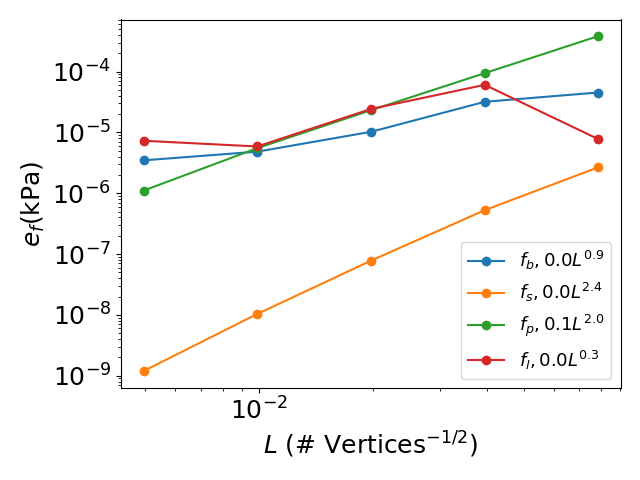
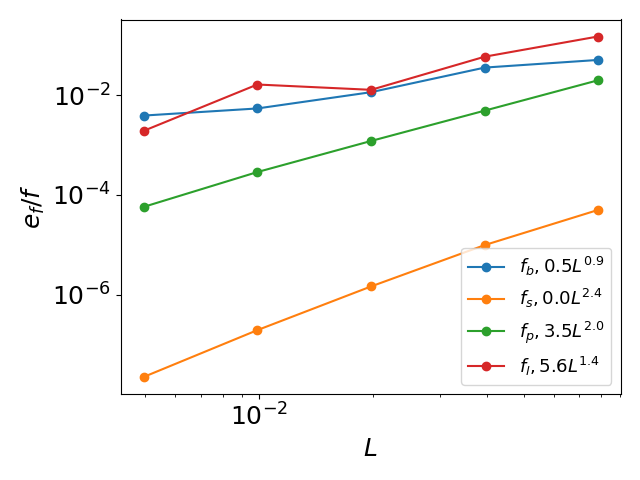
working convergence plot update

diff --git a/visualization/convergence/convergence_pybind.py b/visualization/convergence/convergence_pybind.py
@@ -66,11 +66,12 @@ pJ = 1e3  # fJ = 1e-15 J
 Pa = 1e-3  # kPa
 
 nSubSize = 6
+minSub = 2
 nvertices = np.zeros(nSubSize)
-l2bendnorm = np.zeros(nSubSize)
-l2surfnorm = np.zeros(nSubSize)
-l2pressnorm = np.zeros(nSubSize)
-l2linenorm = np.zeros(nSubSize)
+l1bendnorm = np.zeros(nSubSize)
+l1surfnorm = np.zeros(nSubSize)
+l1pressnorm = np.zeros(nSubSize)
+l1linenorm = np.zeros(nSubSize)
 
 bendenergy = np.zeros(nSubSize)
 surfenergy = np.zeros(nSubSize)
@@ -78,7 +79,7 @@ pressenergy = np.zeros(nSubSize)
 lineenergy = np.zeros(nSubSize)
 
 for i in range(nSubSize):
-    n = i+2
+    n = minSub + i
     faceMatrix, vertexMatrix = pymem3dg.getIcosphere(n, 1.3)
     faceMatrix, refVertexMatrix = pymem3dg.getIcosphere(n, 1)
     g = pymem3dg.System(faceMatrix, vertexMatrix, refVertexMatrix, nSub, p, isReducedVolume,
@@ -86,11 +87,11 @@ for i in range(nSubSize):
     g.computeFreeEnergy()
     g.computeAllForces()
     nvertices[i] = len(np.array(g.getVertexPositionMatrix()))
-    l2bendnorm[i] = g.computeL2Norm(
+    l1bendnorm[i] = g.computeL1Norm(
         g.getLumpedMassMatrix() * g.getBendingPressure())
-    l2surfnorm[i] = g.computeL2Norm(
+    l1surfnorm[i] = g.computeL1Norm(
         g.getLumpedMassMatrix() * g.getCapillaryPressure())
-    l2pressnorm[i] = g.computeL2Norm(
+    l1pressnorm[i] = g.computeL1Norm(
         g.getLumpedMassMatrix() * g.getInsidePressure())
 
     bendenergy[i] = g.E.BE
@@ -103,32 +104,28 @@ p.sharpness = 10000000
 p.r_H0 = [1, 1]
 p.eta = 0.0005
 for i in range(nSubSize):
-    n = i+1
+    n = minSub + i
     faceMatrix, vertexMatrix = pymem3dg.getIcosphere(n, 1.3)
     faceMatrix, refVertexMatrix = pymem3dg.getIcosphere(n, 1)
     g = pymem3dg.System(faceMatrix, vertexMatrix, refVertexMatrix, nSub, p, isReducedVolume,
                         isProtein, isLocalCurvature, isVertexShift)
     g.computeFreeEnergy()
     g.computeLineTensionPressure()
-    l2linenorm[i] = g.computeL2Norm(
+    l1linenorm[i] = g.computeL1Norm(
         g.getLumpedMassMatrix() * g.getLineTensionPressure())
     lineenergy[i] = g.E.lE
 
-
-print(g.getLineTension())
-print(l2bendnorm)
-print(l2linenorm)
-print(l2pressnorm)
-print(l2surfnorm)
-print(bendenergy)
-print(surfenergy)
-print(pressenergy)
-print(lineenergy)
-print(abs(l2bendnorm - l2bendnorm[nSubSize - 1])
-      [:nSubSize - 1])
-# l2bendnorm = l2bendnorm / Pa
-# l2surfnorm = l2surfnorm / Pa
-# l2pressnorm = l2pressnorm / Pa
+print("Bending Norm: ", l1bendnorm)
+print("Line tension Norm: ", l1linenorm)
+print("Pressure Norm: ", l1pressnorm)
+print("Surface Norm: ", l1surfnorm)
+print("Bending Energy: ", bendenergy)
+print("Surface Energy: ", surfenergy)
+print("Pressure Energy: ", pressenergy)
+print("Line Tension Energy: ", lineenergy)
+# l1bendnorm = l1bendnorm / Pa
+# l1surfnorm = l1surfnorm / Pa
+# l1pressnorm = l1pressnorm / Pa
 
 # Visualization preference
 # Font:
@@ -150,71 +147,61 @@ plt.rc('pdf', fonttype=42)
 
 
 ax = plt.subplot(1, 1, 1)
-# ax.plot(1/nvertices[:nSubSize-1], abs(l2bendnorm - l2bendnorm[nSubSize-1])[:nSubSize-1], label="bending")
-# ax.plot(1/nvertices[:nSubSize-1], abs(l2surfnorm - l2surfnorm[nSubSize-1])[:nSubSize-1], label="capillary")
-# ax.plot(1/nvertices[:nSubSize-1], abs(l2pressnorm - l2pressnorm[nSubSize-1])[:nSubSize-1], label="pressure")
-newX = np.logspace(-1.6, -1.1, base=10)
 
-popt, pcov = curve_fit(myExpFunc, np.power(
-    nvertices, -0.5), abs(l2bendnorm - l2bendnorm[nSubSize-1]))
-ax.loglog(np.power(nvertices, -0.5)[:nSubSize-1],
-          abs(l2bendnorm - l2bendnorm[nSubSize-1])[:nSubSize-1],
+lengthScale = np.power(nvertices, -0.5)[:nSubSize-1]
+
+error = abs(l1bendnorm - l1bendnorm[nSubSize-1])[:nSubSize-1] / abs(l1bendnorm[nSubSize-1])
+popt, pcov = curve_fit(myExpFunc, lengthScale, error)
+ax.loglog(lengthScale, error,
           '-o',  label="$f_b, {0:.1f}L^{{{1:.1f}}}$".format(*popt))
 
-popt, pcov = curve_fit(myExpFunc, np.power(
-    nvertices, -0.5), abs(l2surfnorm - l2surfnorm[nSubSize-1]))
-ax.loglog(np.power(nvertices, -0.5)[:nSubSize-1],
-          abs(l2surfnorm - l2surfnorm[nSubSize-1])[:nSubSize-1],
-          '-o', label="$f_s, {0:.1f}L^{{{1:.1f}}}$".format(*popt))
+error = abs(l1surfnorm - l1surfnorm[nSubSize-1])[:nSubSize-1] / abs(l1surfnorm[nSubSize-1])
+popt, pcov = curve_fit(myExpFunc, lengthScale, error)
+ax.loglog(lengthScale, error,
+          '-o', label="$f_s, {0:.1f}L^{{{1:.1f}}}$".format(*popt)) 
 
-popt, pcov = curve_fit(myExpFunc, np.power(
-    nvertices, -0.5), abs(l2pressnorm - l2pressnorm[nSubSize-1]))
-ax.loglog(np.power(nvertices, -0.5)[:nSubSize-1],
-          abs(l2pressnorm - l2pressnorm[nSubSize-1])[:nSubSize-1],
+error = abs(l1pressnorm - l1pressnorm[nSubSize-1])[:nSubSize-1] / abs(l1pressnorm[nSubSize-1])
+popt, pcov = curve_fit(myExpFunc, lengthScale, error)
+ax.loglog(lengthScale, error,
           '-o', label="$f_p, {0:.1f}L^{{{1:.1f}}}$".format(*popt))
 
-popt, pcov = curve_fit(myExpFunc, np.power(
-    nvertices, -0.5), abs(l2linenorm - l2linenorm[nSubSize-1]))
-ax.loglog(np.power(nvertices, -0.5)[:nSubSize-1],
-          abs(l2linenorm - l2linenorm[nSubSize-1])[:nSubSize-1],
+error = abs(l1linenorm - l1linenorm[nSubSize-1])[:nSubSize-1] / abs(l1linenorm[nSubSize-1])
+popt, pcov = curve_fit(myExpFunc, lengthScale, error)
+ax.loglog(lengthScale, error,
           '-o', label="$f_l, {0:.1f}L^{{{1:.1f}}}$".format(*popt))
 
 ax.legend()
-ax.set_ylabel("$e_f$(kPa)")
-ax.set_xlabel("$L$ (# Vertices$^{-1/2}$)")
+ax.set_ylabel("$e_f / f$")
+ax.set_xlabel("$L$")
 plt.tight_layout()
 plt.savefig("pressure_conv.png")
 ax.clear()
 
-newX = np.logspace(-2.5, -1.3, base=10)
-popt, pcov = curve_fit(myExpFunc, np.power(
-    nvertices, -0.5), abs(bendenergy - bendenergy[nSubSize-1]))
-ax.loglog(np.power(nvertices, -0.5)[:nSubSize-1],
-          abs(bendenergy - bendenergy[nSubSize-1])[:nSubSize-1],
+error = abs(bendenergy - bendenergy[nSubSize-1])[:nSubSize-1] / abs(bendenergy[nSubSize-1])
+print(error)
+popt, pcov = curve_fit(myExpFunc, lengthScale, error)
+ax.loglog(lengthScale, error,
           '-o', label="$E_b, {0:.1f}L^{{{1:.1f}}}$".format(*popt))
 
-popt, pcov = curve_fit(myExpFunc, np.power(
-    nvertices, -0.5), abs(surfenergy - surfenergy[nSubSize-1]))
-ax.loglog(np.power(nvertices, -0.5)[:nSubSize-1],
-          abs(surfenergy - surfenergy[nSubSize-1])[:nSubSize-1],
-          '-o', label="$E_s, {0:.1f}L^{{{1:.1f}}}$".format(*popt))
+error = abs(surfenergy - surfenergy[nSubSize-1])[:nSubSize-1] / abs(surfenergy[nSubSize-1])
+print(error)
+popt, pcov = curve_fit(myExpFunc, lengthScale, error)
+ax.loglog(lengthScale, error,
+          '--', label="$E_s, {0:.1f}L^{{{1:.1f}}}$".format(*popt))
 
-popt, pcov = curve_fit(myExpFunc, np.power(
-    nvertices, -0.5), abs(pressenergy - pressenergy[nSubSize-1]))
-ax.loglog(np.power(nvertices, -0.5)[:nSubSize-1],
-          abs(pressenergy - pressenergy[nSubSize-1])[:nSubSize-1],
+error = abs(pressenergy - pressenergy[nSubSize-1])[:nSubSize-1] / abs(pressenergy[nSubSize-1])
+popt, pcov = curve_fit(myExpFunc, lengthScale, error)
+ax.loglog(lengthScale, error,
           '-o', label="$E_p, {0:.1f}L^{{{1:.1f}}}$".format(*popt))
 
-popt, pcov = curve_fit(myExpFunc, np.power(
-    nvertices, -0.5), abs(lineenergy - lineenergy[nSubSize-1]))
-ax.loglog(np.power(nvertices, -0.5)[:nSubSize-1],
-          abs(lineenergy - lineenergy[nSubSize-1])[:nSubSize-1],
+error = abs(lineenergy - lineenergy[nSubSize-1])[:nSubSize-1] / abs(lineenergy[nSubSize-1])
+popt, pcov = curve_fit(myExpFunc, lengthScale, error)
+ax.loglog(lengthScale, error,
           '-o', label="$E_l, {0:.1f}L^{{{1:.1f}}}$".format(*popt))
 
-
 ax.legend()
-ax.set_ylabel("$e_E(k_BT)$")
-ax.set_xlabel("$L$ (# Vertices$^{-1/2}$)")
+ax.set_ylabel("$e_E / E$")
+ax.set_xlabel("$L$")
 plt.tight_layout()
 plt.savefig("energy_conv.png")
 
